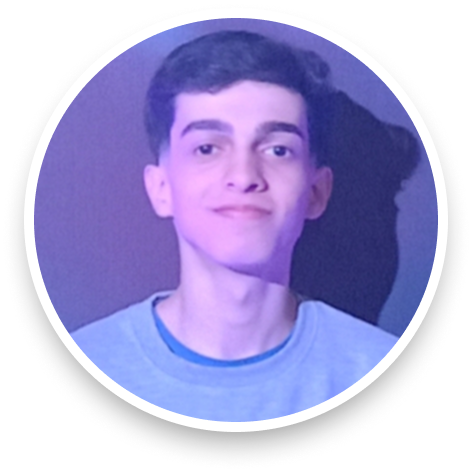
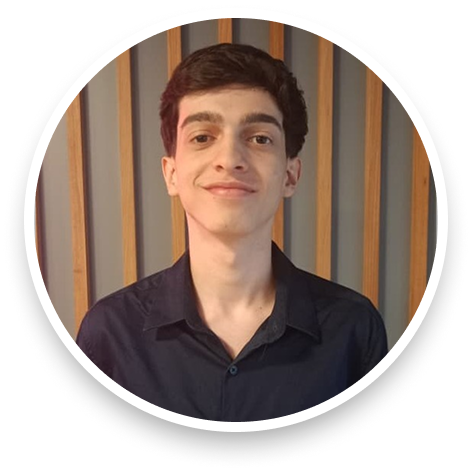
feat: update images and data.

diff --git a/portfolio/src/assets/svgs/githubIco.tsx b/portfolio/src/assets/svgs/githubIco.tsx
@@ -1,0 +1,25 @@
+import * as React from "react";
+import type { SVGProps } from "react";
+
+const GitHubIco = (props: SVGProps<SVGSVGElement>) => (
+  <svg
+    xmlns="http://www.w3.org/2000/svg"
+    width={35}
+    height={35}
+    viewBox="0 0 512 499.368"
+    {...props}
+    shapeRendering="geometricPrecision"
+    textRendering="geometricPrecision"
+    imageRendering="optimizeQuality"
+    fillRule="evenodd"
+    clipRule="evenodd"
+  >
+    <path
+      fill="#fff"
+      fillRule="nonzero"
+      d="M256.003 0C114.555 0 0 114.555 0 256.003c0 113.286 73.28 208.961 175.038 242.865 12.796 2.247 17.586-5.433 17.586-12.153 0-6.077-.309-26.225-.309-47.686-64.313 11.844-80.941-15.674-86.058-30.055-2.896-7.37-15.359-30.1-26.269-36.177-8.948-4.808-21.752-16.652-.31-16.961 20.168-.309 34.574 18.564 39.382 26.244 23.038 38.732 59.839 27.828 74.555 21.101 2.227-16.627 8.947-27.828 16.318-34.239-56.968-6.386-116.467-28.471-116.467-126.399 0-27.827 9.907-50.866 26.225-68.787-2.562-6.41-11.51-32.655 2.562-67.853 0 0 21.436-6.72 70.409 26.244 20.483-5.767 42.227-8.638 63.998-8.638 21.751 0 43.52 2.896 63.997 8.638 48.973-33.279 70.39-26.244 70.39-26.244 14.09 35.192 5.117 61.443 2.562 67.853 16.318 17.921 26.244 40.625 26.244 68.787 0 98.237-59.84 119.988-116.801 126.399 9.282 8.014 17.277 23.373 17.277 47.371 0 34.238-.309 61.751-.309 70.389 0 6.721 4.808 14.735 17.586 12.179C438.739 464.964 512 368.955 512 256.003 512 114.555 397.445 0 256.003 0z"
+    />
+  </svg>
+);
+
+export default GitHubIco;

diff --git a/sign-in/index.html b/sign-in/index.html
@@ -24,7 +24,7 @@
                 <a href="">forgot password</a>
               </div>
               <input placeholder="Name" type="password" id="password" />
-            </fieldset>
+            </fieldset>'
             <fieldset class="checkbox">
               <input type="checkbox" name="checkbox" id="checkbox" />
               <label for="remember">Remember for 30 days</label>
@@ -42,7 +42,7 @@
             <button class="sign-apps">
               <img
                 src="/src/assets/icons/google-icon.svg"
-                alt="Logo da Google"
+                alt="Logo da Google"'
                 class="logo-sign-button"
               />Sign in with Google
             </button>

diff --git a/portfolio/src/components/button-download/button-download.tsx b/portfolio/src/components/button-download/button-download.tsx
@@ -1,15 +1,15 @@
-import { DownloadIco } from "@/assets/svgs/export";
+import GitHubIco from "@/assets/svgs/githubIco";
 
 export default function ButtonDownload() {
   return (
     <a
-      href="https://curriculo-web-puce.vercel.app/"
+      href="https://github.com/miguelzackk"
       target="_blank"
       rel="noopener noreferrer"
       className="flex py-[15px] px-[25px] justify-center items-center gap-2.5 rounded-[35px] bg-primary text-white text-xl font-normal hover:bg-orange-700 transition-all duration-300 ease-out hover:shadow-sm hover:-translate-y-1"
     >
-      <DownloadIco />
-      Download Resume
+      <GitHubIco />
+      Visit my GitHub
     </a>
   );
 }

diff --git a/portfolio/src/app/page.tsx b/portfolio/src/app/page.tsx
@@ -291,7 +291,7 @@ export default function Home() {
       </section>
       <footer className="flex py-[50px] justify-center items-center gap-2.5 self-stretch bg-black">
         <p className="text-gray-custom text-base font-normal text-center">
-          Copyright 2025 @CIT || All Rights Reserved
+          Copyright 2025 || All Rights Reserved
         </p>
       </footer>
     </div>

diff --git a/portfolio/src/assets/svgs/export.ts b/portfolio/src/assets/svgs/export.ts
@@ -19,3 +19,4 @@ export { default as NodeIco } from "./nodeIcon";
 export { default as ReactIco } from "./reactIcon";
 export { default as SassIco } from "./sassIcon";
 export { default as TailwindIco } from "./tailwindIcon";
+export { default as GiHubIco } from "./githubIco";
